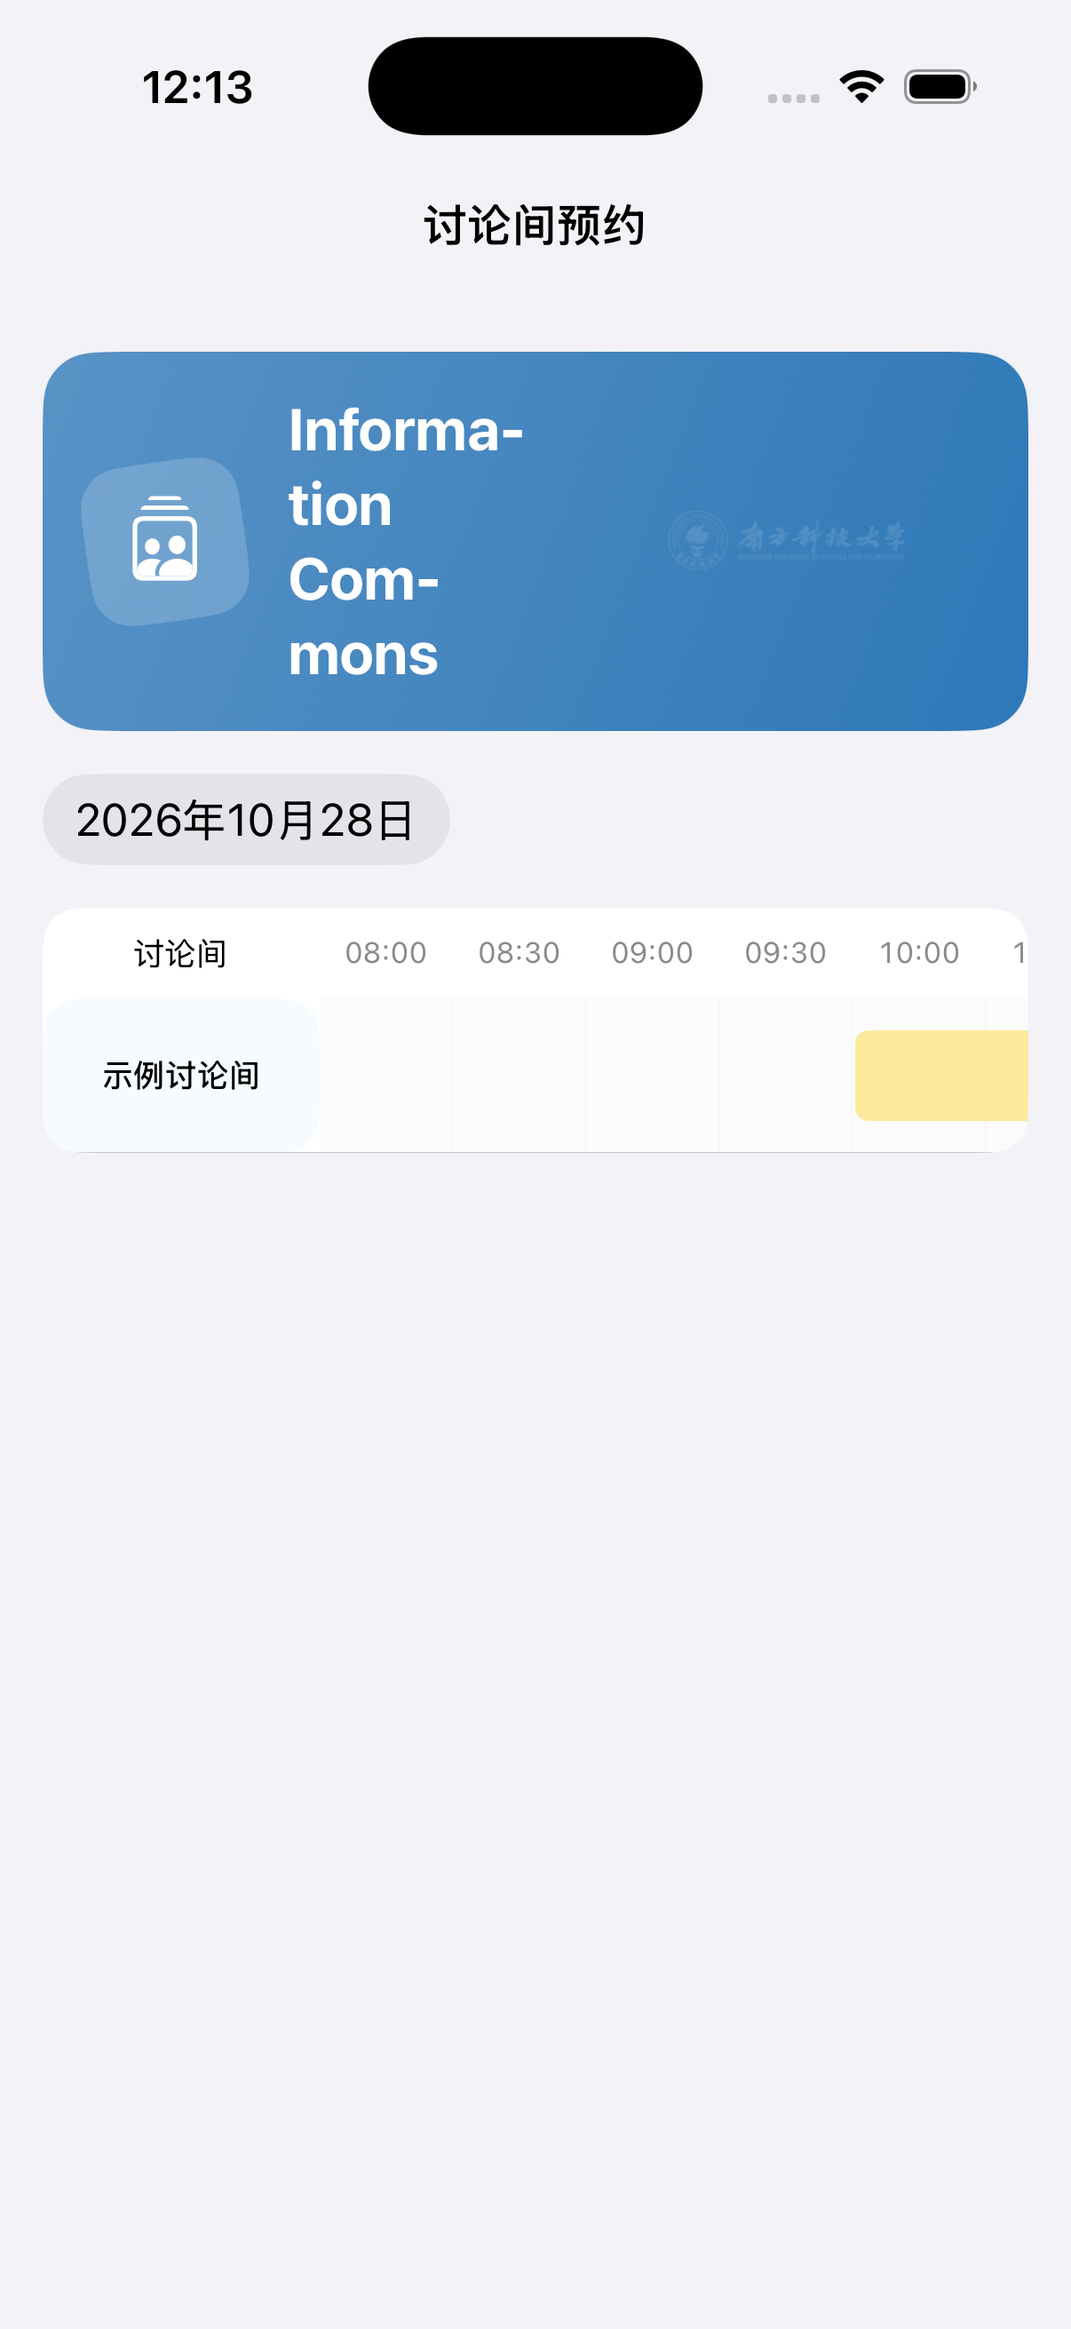
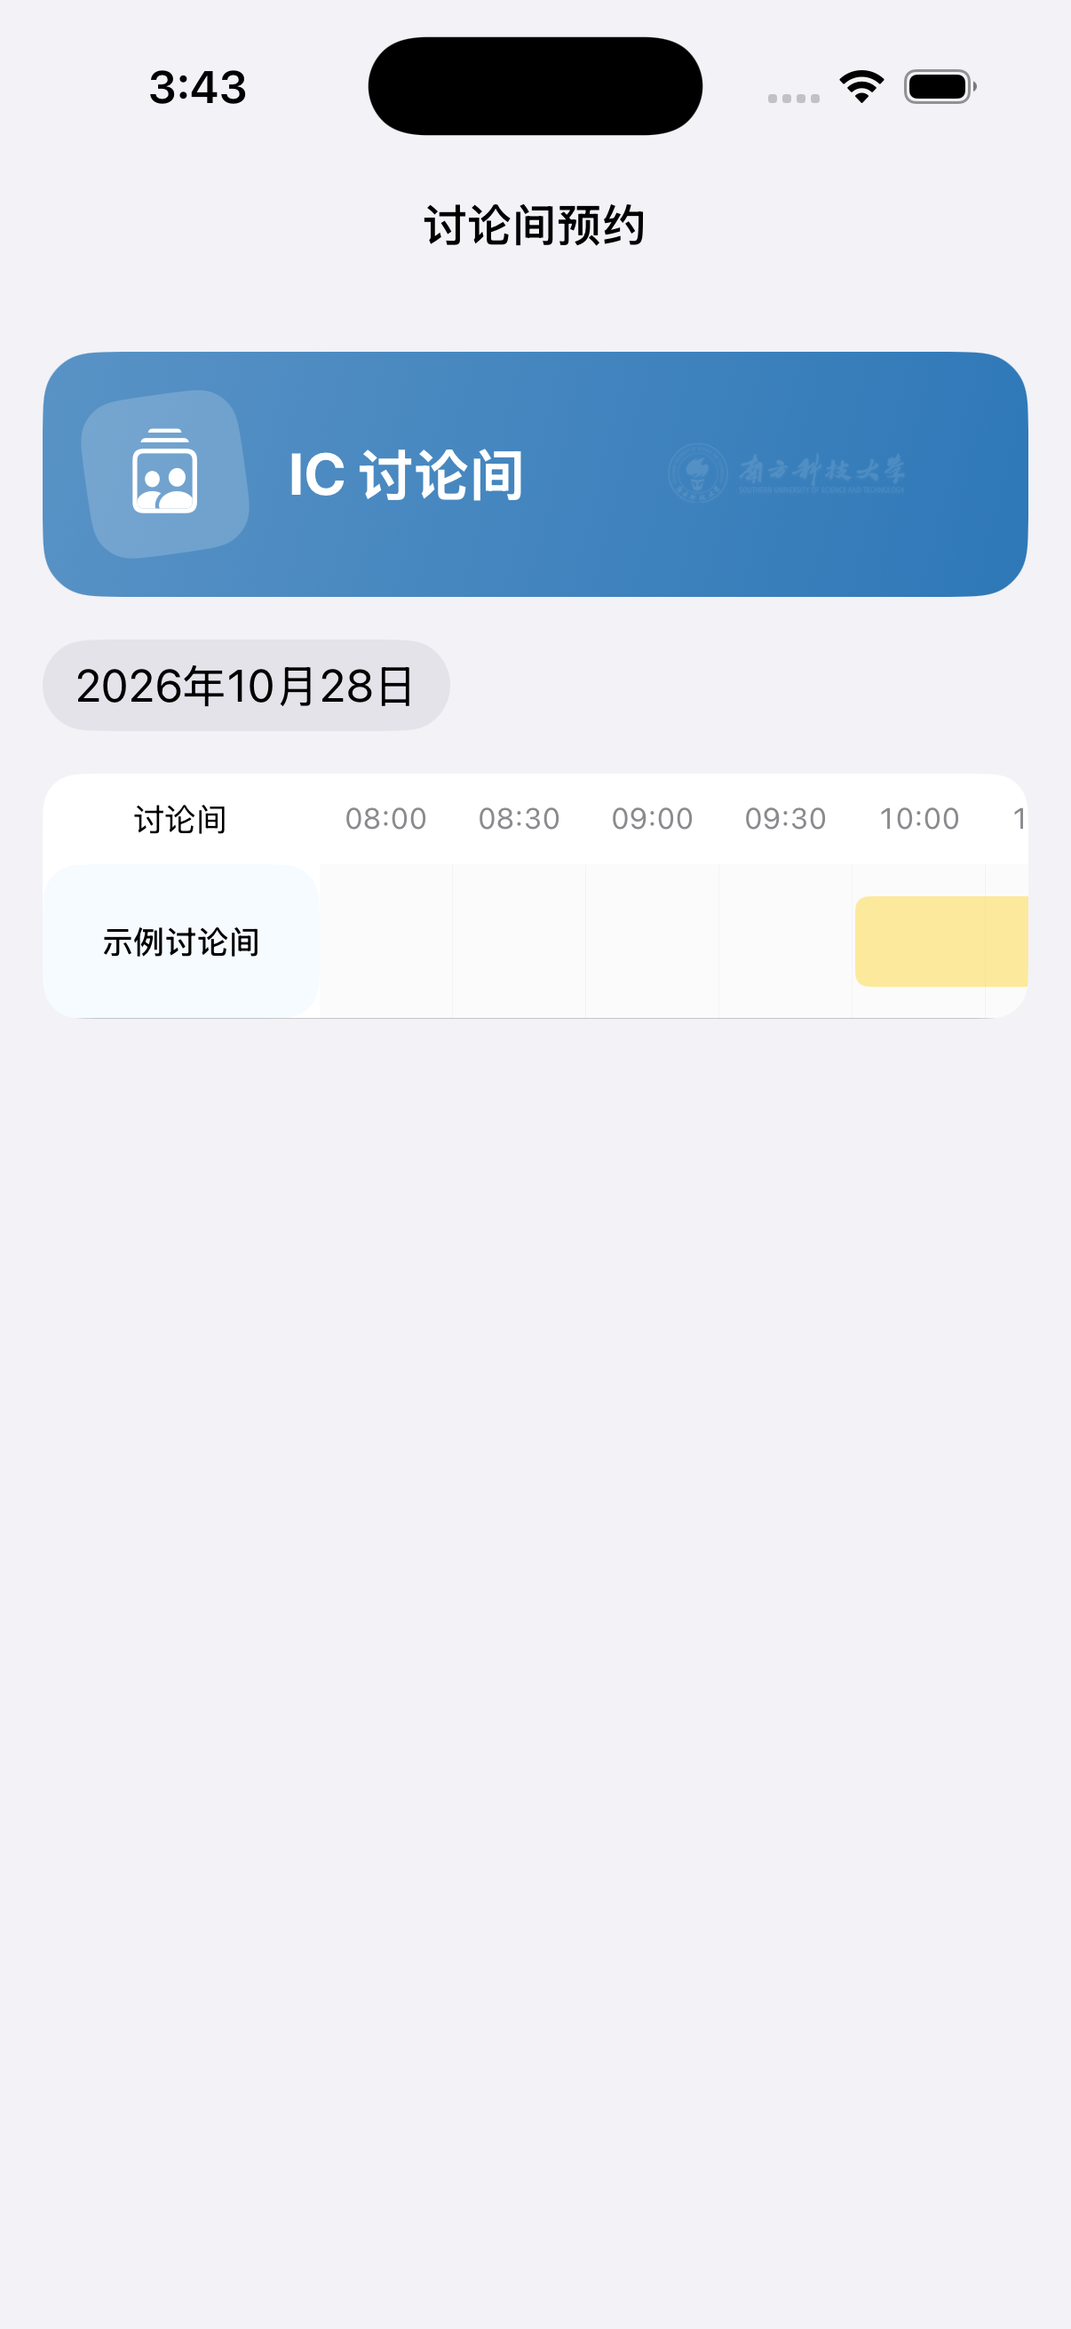
Publish 0.9 documentation, final screenshots and verified package evidence

diff --git a/README.md b/README.md
@@ -29,11 +29,11 @@
 
 ## 当前状态
 
-当前功能版本为 **0.8.0 试用版**。修复底栏切换动画并强化 iOS 26+ 原生玻璃选中态，首页自动读取余额、直接显示待办日程，页头融入学校官方校徽与校名；移除图书馆和排课。体育授权支持复制链接唤起企业微信、粘贴连接和一键复制本机密钥。充值继续研究原生授权及自定义金额，正式原生下单尚未启用。详见 [0.8.0 说明](docs/RELEASE_0_8.md)。
+当前功能版本为 **0.9.0 试用版**。重做个人资料与设置、IC 房间时间网格、NCES 蓝白评价卡和交换项目原生详情；修复交换项目实体文字，封面按需加载且不写磁盘；补充 ProMotion 高刷新率配置，精简连接、更新时间及说明文字，保留下拉刷新和短错误。体育因没有验证到原生登录或企业微信对应页直达而移除。详见 [0.9.0 说明](docs/RELEASE_0_9.md) 与 [真实只读核对](docs/BUSINESS_VERIFICATION_0_9.md)。
 
 界面根据 Apple 设计原则重新整理，采用[学校官方标识页](https://www.sustech.edu.cn/zh/school_logo.html)公布的 **南科大橙 `#ED6C00`、墨绿 `#003F43`、天青 `#2BBCB3`**，以深色重点摘要、彩色服务入口与紧凑课程块建立层级；支持深色模式和系统大字号。使用文字和图标共同表达状态，临近截止时间单独强调。完整功能与验证边界见 [0.6.0 说明](docs/RELEASE_0_6.md)、[0.5.0 说明](docs/RELEASE_0_5.md)。
 
-**真实校园账号下的新接口及续借、打印、预约、BB 提交仍待逐项真机验收。** 界面与编译通过不代表学校服务全部可用；未签名 IPA 仍需本地签名安装，Apple 证书申请问题不属于 App 内登录功能。
+**本机真实只读核对已确认专业资料、IC 房间与日期占用、交换项目及图片；空教室旧目录接口仍返回空响应，尚未恢复。** 打印、预约、BB 提交与充值写操作仍待逐项真机验收。未签名 IPA 需本地签名安装；模拟器截图不代表真实业务或实测 120 fps。
 
 ## 当前功能
 
@@ -44,24 +44,24 @@
 | 课表与考试 | 网格/列表周课表、本学期课程汇总、教学日历、放假与补课、考试和离线缓存 | 全学期失败时当前周回退；未知周次和临时调整需核对 |
 | 成绩 | 分页读取、学期筛选、成绩与学分、GPA 记录试算 | 不代表学校官方总 GPA 或毕业审核结论 |
 | Blackboard | 课程、任务、提交状态、公告、课件、折叠/恢复，Original 个人单文件提交 | 不支持测验/Ultra/小组/已有草稿；预检、本人确认、一次 POST、服务器新记录回读；结果未知不重发 |
-| 课件与离线 | 下载、Quick Look 预览、系统分享、删除与同步时间 | 外部链接和特殊内容交学校页面 |
+| 课件与离线 | 下载、Quick Look 预览、系统分享、删除 | 外部链接和特殊内容交学校页面 |
 | 校园卡 | 余额、近期账单、本地范围筛选、按日消费曲线 | 原生充值渠道页（支付宝 / 微信入口）；金额与付款在平台完成；消费统计仅覆盖已返回记录 |
-| 空教室 | 教室目录、教学周/星期/节次筛选、课程与借用占用查询 | 每次核对筛选前 20 间；系统未见占用不保证可进入 |
-| 校车 | 站点、线路方向、预计到站、更新时间与数据来源 | CRA 公共数据，手动刷新，预测不等于实际到站 |
+| 空教室 | 教学周/星期/节次筛选及占用查询界面 | **旧目录接口返回空体，当前查询尚不可用**；缺失数据不显示为空闲 |
+| 校车 | 最近方向站台与到站、车辆/站台浮卡、可拖动时刻表、定位与曲线路线 | CRA 公共数据，前台轮询与下拉刷新；预测不等于实际到站 |
 | 校园打印 | PDF 导入、纸张/颜色/单双面/份数/页码、上传、队列与删除 | 50 MB 以内有效 PDF；需签名安装后在校园环境验证；不自动重传 |
-| 预约中心 | IC 房间、CLE 辅导、reservation 体育场馆目录与时段、手动预约/取消、本人记录 | 各平台认证和规则独立；体育首次企业微信授权、本人完成滑块；没有抢场 |
-| 日程与提醒 | 课程、考试、BB、预约、借阅到期与个人事项；日历添加/更新、本地提醒 | 课程日期需核对校历锚点；基于已同步信息，不承诺实时后台更新 |
-| 课程评价 | NCES 搜索、公开评价分页、收藏 | 社区来源，不代表学校正式评价 |
+| 预约中心 | IC 房间×时间网格、CLE 辅导、书院场地日程、本人记录及既有预约/取消 | 缺失占用不可选；体育入口已移除；写入仍需设备验证，没有抢场 |
+| 日程与提醒 | 课程、考试、BB、预约与个人事项；日历添加/更新、本地提醒 | 课程日期需核对校历锚点；基于已同步信息，不承诺实时后台更新 |
+| 课程评价 | NCES 蓝白卡片、10 分总评、四维指标、真实分页、收藏 | 社区来源，不代表学校正式评价 |
 | 修读进度 | 学校总要求、完成情况、学分类别、模块要求 | 学校数据部分失败独立显示，不合计重叠类别为毕业结论 |
 | 打印增强 | PDF 课件直接打印、站点、扫描任务列表/确认删除、用量查询 | 扫描下载路径未验证；系统分享扩展单独签名验证 |
 | 校园码 | 原生校园码与身份码、30/60 秒前台刷新、过期/后台隐藏、低余额设置 | 真实消费机/核验终端仍待验证，不等于 Apple Wallet 卡片 |
 | 教师目录 | 994 条公开资料搜索，原生详情中的邮箱/办公室、复制/分享和邮件入口 | 名录快照 2026-10-02；联系方式按需读取、缓存 7 天，可能未公开或无法识别 |
-| 交换项目 | 原生分页列表、可申请筛选、已加载项目搜索、官方详情与申请 | CAS 与 WS 服务会话需学校账号实测，申请在官方页面完成 |
-| 校车地图 | 原生 Apple 地图、线路轨迹、站点到站入口、车辆位置、线路筛选、暂停车辆开关 | 10 秒前台轮询；超过 2 分钟或未知上报时间标灰，不等同连续 GPS；底图需联网 |
+| 交换项目 | 原生分页列表与详情、实体文字清洗、临时内存封面、可申请筛选 | 真实只读查询已核对；申请在官方临时网页会话完成 |
+| 校车地图 | 原生 Apple 地图、线路轨迹、站点到站、车辆位置、线路筛选 | 10 秒前台轮询；超过 2 分钟或未知上报时间标灰，不等同连续 GPS；底图需联网 |
 | 小组件 | 可配课程/BB/天气/校车信息，四宫格快捷入口与 App 路由 | 独立扩展包；共享课程与 BB 需主动开启，App Groups 签名未实测 |
 | 维护工具 | 网络与服务可达性诊断、GitHub 发布版本检查 | 可达性不代表已登录；侧载更新仍需本地签名 |
-| 其他办事 | 保留仍使用的学校官方网页及原体育预约平台入口 | 尚未原生化的流程继续使用学校页面 |
-| iPad 与演示 | 宽屏布局，虚构学习样例及无需账号的界面浏览 | 新校园服务在演示模式不产生真实打印或预约 |
+| 我的与设置 | 姓名、学号、真实专业及院系；我的预约、下载、日程；分区设置 | 仅展示学校实际提供的字段；成功登录静默，确认失效才提示 |
+| iPad 与开发验证 | 宽屏布局，DEBUG 虚构样例供界面测试 | 正式安装版没有演示模式入口 |
 
 0.5.0 提供普通包和包含系统分享打印、WidgetKit 扩展的独立验证包；扩展需要有效 App Groups 签名，免费账号/iLoader 兼容性未通过真机验收。普通包保留主 App 内 PDF 导入。
 
@@ -72,6 +72,33 @@
 本轮操作路径和验收步骤见 [0.3.0 说明](docs/RELEASE_0_3.md)，上一版记录见 [0.2.0 说明](docs/RELEASE_0_2.md)。
 
 ## 界面截图
+
+**0.9.0 业务页改版**：以下 38 张页面截图来自 [运行 40684347344](https://github.com/aNother1332/sustech-mobile-ios/actions/runs/40684347344)，源码 `588e49c`。均使用 DEBUG 示例资料；不含真实账号。IC、NCES、交换项目六张图已由最终源码 `162c4e0` 的 [运行 40717121442](https://github.com/aNother1332/sustech-mobile-ios/actions/runs/40717121442) 更新；最终包另精简说明并修正过期登录提示。构建来源见 [发布说明](docs/RELEASE_0_9.md)。截图不替代真实校园业务验收。
+
+| 页面 | iPhone | iPad |
+| --- | --- | --- |
+| 今天 | <img src="docs/screenshots/v09-iPhone-today.png" width="230" alt="iPhone 今天"> | <img src="docs/screenshots/v09-iPad-today.png" width="420" alt="iPad 今天"> |
+| 学习摘要 | <img src="docs/screenshots/v09-iPhone-learning-home.png" width="230" alt="iPhone 学习摘要"> | <img src="docs/screenshots/v09-iPad-learning-home.png" width="420" alt="iPad 学习摘要"> |
+| 课表 | <img src="docs/screenshots/v09-iPhone-timetable.png" width="230" alt="iPhone 课表"> | <img src="docs/screenshots/v09-iPad-timetable.png" width="420" alt="iPad 课表"> |
+| 考试 | <img src="docs/screenshots/v09-iPhone-exams.png" width="230" alt="iPhone 考试"> | <img src="docs/screenshots/v09-iPad-exams.png" width="420" alt="iPad 考试"> |
+| 成绩 | <img src="docs/screenshots/v09-iPhone-grades.png" width="230" alt="iPhone 成绩"> | <img src="docs/screenshots/v09-iPad-grades.png" width="420" alt="iPad 成绩"> |
+| Blackboard | <img src="docs/screenshots/v09-iPhone-blackboard.png" width="230" alt="iPhone Blackboard"> | <img src="docs/screenshots/v09-iPad-blackboard.png" width="420" alt="iPad Blackboard"> |
+| 个人资料 | <img src="docs/screenshots/v09-iPhone-account.png" width="230" alt="iPhone 个人资料"> | <img src="docs/screenshots/v09-iPad-account.png" width="420" alt="iPad 个人资料"> |
+| 设置 | <img src="docs/screenshots/v09-iPhone-settings.png" width="230" alt="iPhone 设置"> | <img src="docs/screenshots/v09-iPad-settings.png" width="420" alt="iPad 设置"> |
+| 我的预约 | <img src="docs/screenshots/v09-iPhone-my-reservations.png" width="230" alt="iPhone 我的预约"> | <img src="docs/screenshots/v09-iPad-my-reservations.png" width="420" alt="iPad 我的预约"> |
+| 预约中心 | <img src="docs/screenshots/v09-iPhone-reservations.png" width="230" alt="iPhone 预约中心"> | <img src="docs/screenshots/v09-iPad-reservations.png" width="420" alt="iPad 预约中心"> |
+| IC房间时间网格 | <img src="docs/screenshots/v09-iPhone-ic.png" width="230" alt="iPhone IC房间时间网格"> | <img src="docs/screenshots/v09-iPad-ic.png" width="420" alt="iPad IC房间时间网格"> |
+| 空教室查询界面 | <img src="docs/screenshots/v09-iPhone-classrooms.png" width="230" alt="iPhone 空教室查询界面"> | <img src="docs/screenshots/v09-iPad-classrooms.png" width="420" alt="iPad 空教室查询界面"> |
+| NCES课程评价 | <img src="docs/screenshots/v09-iPhone-reviews.png" width="230" alt="iPhone NCES课程评价"> | <img src="docs/screenshots/v09-iPad-reviews.png" width="420" alt="iPad NCES课程评价"> |
+| 交换项目 | <img src="docs/screenshots/v09-iPhone-exchange.png" width="230" alt="iPhone 交换项目"> | <img src="docs/screenshots/v09-iPad-exchange.png" width="420" alt="iPad 交换项目"> |
+| 打印 | <img src="docs/screenshots/v09-iPhone-printing.png" width="230" alt="iPhone 打印"> | <img src="docs/screenshots/v09-iPad-printing.png" width="420" alt="iPad 打印"> |
+| 校园卡 | <img src="docs/screenshots/v09-iPhone-card.png" width="230" alt="iPhone 校园卡"> | <img src="docs/screenshots/v09-iPad-card.png" width="420" alt="iPad 校园卡"> |
+| 教师详情 | <img src="docs/screenshots/v09-iPhone-faculty-detail.png" width="230" alt="iPhone 教师详情"> | <img src="docs/screenshots/v09-iPad-faculty-detail.png" width="420" alt="iPad 教师详情"> |
+| 原生玻璃底栏 | <img src="docs/screenshots/v09-iPhone-navigation-glass.png" width="230" alt="iPhone 原生玻璃底栏"> | <img src="docs/screenshots/v09-iPad-navigation-glass.png" width="420" alt="iPad 原生玻璃底栏"> |
+| 半透明回退底栏 | <img src="docs/screenshots/v09-iPhone-navigation-material.png" width="230" alt="iPhone 半透明回退底栏"> | <img src="docs/screenshots/v09-iPad-navigation-material.png" width="420" alt="iPad 半透明回退底栏"> |
+
+<details>
+<summary>0.8.0 历史界面（含已移除功能）</summary>
 
 **0.8.0 当前界面**：截图来自 [iOS 26.2 模拟器运行 40527017735](https://github.com/aNother1332/sustech-mobile-ios/actions/runs/40527017735)，界面源码 `e03fead`，共 20 张。原生玻璃与强制半透明两条路径均验证四次切换后底栏实例保持一个。最终包 `fd0a668` 另补上学校预约正常目录和自动登录结束后的余额重读，并通过完整测试及编译。图片为演示资料，真实余额、企业微信及充值仍需设备核对。
 
@@ -86,6 +113,8 @@
 | 充值渠道 | <img src="docs/screenshots/v08-iPhone-recharge.png" width="230" alt="iPhone 充值渠道"> | <img src="docs/screenshots/v08-iPad-recharge.png" width="420" alt="iPad 充值渠道"> |
 | 原生玻璃底栏 | <img src="docs/screenshots/v08-iPhone-navigation-glass.png" width="230" alt="iPhone 原生玻璃底栏"> | <img src="docs/screenshots/v08-iPad-navigation-glass.png" width="420" alt="iPad 原生玻璃底栏"> |
 | 半透明回退底栏 | <img src="docs/screenshots/v08-iPhone-navigation-material.png" width="230" alt="iPhone 半透明回退底栏"> | <img src="docs/screenshots/v08-iPad-navigation-material.png" width="420" alt="iPad 半透明回退底栏"> |
+
+</details>
 
 <details>
 <summary>0.7.0 与更早版本的历史截图（含已移除功能）</summary>

diff --git a/docs/RELEASE_0_9.md b/docs/RELEASE_0_9.md
@@ -1,6 +1,14 @@
 # SUSTechMobile 0.9.0 / build 13
 
-实施已确认的业务页重设计、精简状态提示、个人资料与设置分离、NCES评价卡、研讨间日历、交换项目文字与临时内存图片，以及高刷新率配置。
+本版重做个人资料、设置、NCES、交换项目和 IC 讨论间日历，并统一业务页的字体、按钮、卡片与错误提示。
+
+- “我的”以真实个人资料为主体，合并 TIS 专业、院系资料；保留我的预约、下载文件和日程提醒，账号、缓存、更新及来源移入设置。
+- 删除课表、考试等页的学期/登录状态框、连接成功标识、读取时间及手动刷新按钮；保留下拉刷新。失败显示一行短错误，不弹窗；仅确认身份过期时出现红色登录操作，网络失败保留缓存。
+- 正式版无演示模式切换、永久备用网页登录入口；学校确实要求交互验证时才在登录过程中打开验证页。
+- IC 使用房间 × 半小时时间网格，按日期读取实际开放时间与预约占用。点击可用未来时段填写预约；缺失/异常日程保持不可选。预约提交/取消仍需最后一次确认。
+- NCES 改为蓝白卡片，显示原站 10 分总评分、难度/作业/给分/收获四维数据，按真实分页加载课程与评价。
+- 交换项目修复 HTML 数字实体与嵌套实体显示，提供原生详情；真实图片只为可见内容按需加载，不使用磁盘缓存，离页取消请求并释放。
+- 校园卡、打印、书院场地、教师、校园码等使用相应的业务页头与紧凑内容布局，继续使用苹果系统字体。
 
 体育未取得可验证的原生登录或企业微信对应页直达，按用户要求移除原生体育、复制流程和无效入口。
 
@@ -8,4 +16,22 @@
 
 高刷新率采用iPhone所需配置和当前窗口的显示能力检测，保留系统自适应调度，不承诺所有电源与温度条件下恒定120fps。
 
-最终测试、安装包及业务核对记录将在交付时补充。空教室旧目录查询已复现HTTP200空体，正在核对可用原版查询来源，不将空响应当成全部空闲。
+**空教室尚未恢复真实查询**：有效教务登录与学期查询正常，但原目录接口多组参数均返回 HTTP 200、零字节内容。界面自动加载、下拉刷新、错误与未知占用处理已调整，不将查询失败当成空闲；尚未找到可验证的替代目录来源。
+
+未执行真实预约、取消、打印提交、BB 提交或付款。体育入口按上述约定移除；原生充值下单与自定义金额仍未验证，未开放付款操作。
+
+本机业务证据、官方高刷新率资料及验证边界见 [业务核对记录](BUSINESS_VERIFICATION_0_9.md)。构建、截图和安装包核验结果见 GitHub Release 的交付记录。
+
+## 最终安装包验证
+
+源码 `162c4e033cca27442e8bb1b84ab891e9725dc6e2`，构建 [40717121442](https://github.com/aNother1332/sustech-mobile-ios/actions/runs/40717121442)。102 项 Swift 核心测试、8 项 Python 打包测试、iPhone/iPad 模拟器编译及 arm64 真机 Release 编译通过。
+
+普通 IPA 2,471,283 字节，扩展 IPA 2,557,602 字节；均已检查 SHA-256、ZIP 完整性、iOS 真机 Mach-O、版本 0.9.0/13、iOS 17 最低版本、iPhone/iPad 设备族及高刷新率配置。普通包没有扩展，实验包包含系统分享和桌面小组件两个扩展。
+
[1 lines of base64/hex data omitted]
+
[1 lines of base64/hex data omitted]
+
+Windows 继续使用本机 iLoader 重签安装普通包。扩展包仍需匹配 App Groups 签名，不作为默认安装选项。
+
+界面验证：iPhone 17 Pro 与 iPad Pro 13 英寸（M5）、iOS 26.2，19 个场景共 38 张页面图及两张桌面图；最终标题修正在运行 40717121442 补查 IC/NCES/交换项目六张图。原生玻璃及半透明回退均断言五次更新后只有一个底栏实例。每图精确来源见 screenshots/SOURCES.json。
